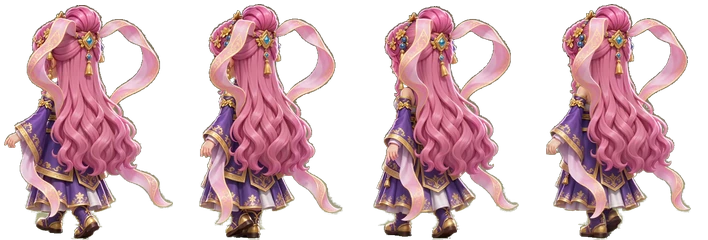
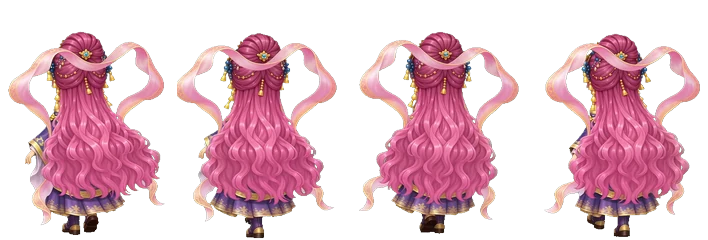
道家女行走图换成新视频版：待机→走→待机，正面/背面各取4帧步伐，无武器
Claude-Session: https://claude.ai/code/session_01Ug7SvjxsTvGWtWQTYLfcGg

diff --git a/js/assets.js b/js/assets.js
@@ -1,2 +1,2 @@
 // 素材清单（相对路径版）。单文件版里这一段会被换成内嵌的 data URI。
-window.ASSETS = {"img": {"axiu": "assets/axiu.webp", "b_axiu": "assets/b_axiu.webp", "b_dao_dz": "assets/b_dao_dz.webp", "b_dao_dz_m": "assets/b_dao_dz_m.webp", "b_dao_qm": "assets/b_dao_qm.webp", "b_dao_qm_m": "assets/b_dao_qm_m.webp", "b_dao_ty": "assets/b_dao_ty.webp", "b_dao_ty_m": "assets/b_dao_ty_m.webp", "b_deer": "assets/b_deer.webp", "b_fox": "assets/b_fox.webp", "b_girl": "assets/b_girl.webp", "b_hawk": "assets/b_hawk.webp", "b_mo_dj": "assets/b_mo_dj.webp", "b_mo_dj_m": "assets/b_mo_dj_m.webp", "b_mo_dz": "assets/b_mo_dz.webp", "b_mo_dz_m": "assets/b_mo_dz_m.webp", "b_mo_ms": "assets/b_mo_ms.webp", "b_mo_ms_m": "assets/b_mo_ms_m.webp", "b_novice_f": "assets/b_novice_f.webp", "b_novice_m": "assets/b_novice_m.webp", "b_player": "assets/b_player.webp", "b_rabbit": "assets/b_rabbit.webp", "b_ss_1221": "assets/b_ss_1221.webp", "b_ss_1222": "assets/b_ss_1222.webp", "b_ss_1223": "assets/b_ss_1223.webp", "b_ss_1224": "assets/b_ss_1224.webp", "b_ss_1225": "assets/b_ss_1225.webp", "b_ss_1226": "assets/b_ss_1226.webp", "b_ss_1227": "assets/b_ss_1227.webp", "b_ss_bs20": "assets/b_ss_bs20.webp", "b_tiger": "assets/b_tiger.webp", "b_wuchen": "assets/b_wuchen.webp", "b_yan": "assets/b_yan.webp", "bc_dao_dz": "assets/bc_dao_dz.webp", "bc_dao_dz_m": "assets/bc_dao_dz_m.webp", "bc_dao_qm": "assets/bc_dao_qm.webp", "bc_dao_qm_m": "assets/bc_dao_qm_m.webp", "bc_dao_ty": "assets/bc_dao_ty.webp", "bc_dao_ty_m": "assets/bc_dao_ty_m.webp", "bc_mo_dj": "assets/bc_mo_dj.webp", "bc_mo_dj_m": "assets/bc_mo_dj_m.webp", "bc_mo_dz": "assets/bc_mo_dz.webp", "bc_mo_dz_m": "assets/bc_mo_dz_m.webp", "bc_mo_ms": "assets/bc_mo_ms.webp", "bc_mo_ms_m": "assets/bc_mo_ms_m.webp", "bg_battle": "assets/bg_battle.webp", "bg_battle2": "assets/bg_battle2.webp", "bg_creek": "assets/bg_creek.webp", "bg_mist": "assets/bg_mist.webp", "bg_outskirts": "assets/bg_outskirts.webp", "bg_pine": "assets/bg_pine.webp", "bg_taixuforest": "assets/bg_taixuforest.webp", "bg_taixupeak": "assets/bg_taixupeak.webp", "bg_taixuvalley": "assets/bg_taixuvalley.webp", "bg_tower1": "assets/bg_tower1.webp", "bg_tower2": "assets/bg_tower2.webp", "bg_tower3": "assets/bg_tower3.webp", "bg_tower4": "assets/bg_tower4.webp", "bg_tower5": "assets/bg_tower5.webp", "bg_tower6": "assets/bg_tower6.webp", "bg_tower7": "assets/bg_tower7.webp", "bg_town": "assets/bg_town.webp", "bg_village": "assets/bg_village.webp", "bg_wild": "assets/bg_wild.webp", "bg_wolfvalley": "assets/bg_wolfvalley.webp", "boar": "assets/boar.webp", "boss": "assets/boss.webp", "bp_ss_1221": "assets/bp_ss_1221.webp", "bp_ss_1222": "assets/bp_ss_1222.webp", "bp_ss_1223": "assets/bp_ss_1223.webp", "bp_ss_1224": "assets/bp_ss_1224.webp", "bp_ss_1225": "assets/bp_ss_1225.webp", "bp_ss_1226": "assets/bp_ss_1226.webp", "bp_ss_1227": "assets/bp_ss_1227.webp", "bp_ss_bs20": "assets/bp_ss_bs20.webp", "cls_dao_dz": "assets/cls_dao_dz.webp", "cls_dao_dz_m": "assets/cls_dao_dz_m.webp", "cls_dao_qm": "assets/cls_dao_qm.webp", "cls_dao_qm_m": "assets/cls_dao_qm_m.webp", "cls_dao_ty": "assets/cls_dao_ty.webp", "cls_dao_ty_m": "assets/cls_dao_ty_m.webp", "cls_f_bow": "assets/cls_f_bow.webp", "cls_f_heal": "assets/cls_f_heal.webp", "cls_f_sword": "assets/cls_f_sword.webp", "cls_m_mage": "assets/cls_m_mage.webp", "cls_m_spear": "assets/cls_m_spear.webp", "cls_m_sword": "assets/cls_m_sword.webp", "cls_mo_dj": "assets/cls_mo_dj.webp", "cls_mo_dj_m": "assets/cls_mo_dj_m.webp", "cls_mo_dz": "assets/cls_mo_dz.webp", "cls_mo_dz_m": "assets/cls_mo_dz_m.webp", "cls_mo_ms": "assets/cls_mo_ms.webp", "cls_mo_ms_m": "assets/cls_mo_ms_m.webp", "cls_novice_f": "assets/cls_novice_f.webp", "cls_novice_m": "assets/cls_novice_m.webp", "dummy": "assets/dummy.webp", "elder": "assets/elder.webp", "f_blade": "assets/f_blade.webp", "f_crane": "assets/f_crane.webp", "f_dragon": "assets/f_dragon.webp", "f_healer": "assets/f_healer.webp", "f_panda": "assets/f_panda.webp", "f_panther": "assets/f_panther.webp", "f_spear": "assets/f_spear.webp", "f_sword": "assets/f_sword.webp", "f_tao": "assets/f_tao.webp", "f_tortoise": "assets/f_tortoise.webp", "fox": "assets/fox.webp", "fx_chain": "assets/fx_chain.webp", "fx_heal": "assets/fx_heal.webp", "fx_mist": "assets/fx_mist.webp", "fx_notes": "assets/fx_notes.webp", "fx_revive": "assets/fx_revive.webp", "fx_ring": "assets/fx_ring.webp", "fx_soul": "assets/fx_soul.webp", "fx_wave": "assets/fx_wave.webp", "fxc_chain": "assets/fxc_chain.webp", "fxc_heal": "assets/fxc_heal.webp", "fxc_mist": "assets/fxc_mist.webp", "fxc_notes": "assets/fxc_notes.webp", "fxc_revive": "assets/fxc_revive.webp", "fxc_soul": "assets/fxc_soul.webp", "fxc_wave": "assets/fxc_wave.webp", "girl": "assets/girl.webp", "grunt": "assets/grunt.webp", "head_axiu": "assets/head_axiu.webp", "head_dao_dz": "assets/head_dao_dz.webp", "head_dao_dz_m": "assets/head_dao_dz_m.webp", "head_dao_qm": "assets/head_dao_qm.webp", "head_dao_qm_m": "assets/head_dao_qm_m.webp", "head_dao_ty": "assets/head_dao_ty.webp", "head_dao_ty_m": "assets/head_dao_ty_m.webp", "head_elder": "assets/head_elder.webp", "head_f_bow": "assets/head_f_bow.webp", "head_f_heal": "assets/head_f_heal.webp", "head_f_sword": "assets/head_f_sword.webp", "head_girl": "assets/head_girl.webp", "head_kk_npc07": "assets/head_kk_npc07.webp", "head_kk_npc13": "assets/head_kk_npc13.webp", "head_kk_npc14": "assets/head_kk_npc14.webp", "head_kk_npc33": "assets/head_kk_npc33.webp", "head_kk_npc45": "assets/head_kk_npc45.webp", "head_kk_npc47": "assets/head_kk_npc47.webp", "head_kk_npc57": "assets/head_kk_npc57.webp", "head_kk_npc_cyblq": "assets/head_kk_npc_cyblq.webp", "head_kk_npc_zhw": "assets/head_kk_npc_zhw.webp", "head_m_mage": "assets/head_m_mage.webp", "head_m_spear": "assets/head_m_spear.webp", "head_m_sword": "assets/head_m_sword.webp", "head_mo_dj": "assets/head_mo_dj.webp", "head_mo_dj_m": "assets/head_mo_dj_m.webp", "head_mo_dz": "assets/head_mo_dz.webp", "head_mo_dz_m": "assets/head_mo_dz_m.webp", "head_mo_ms": "assets/head_mo_ms.webp", "head_mo_ms_m": "assets/head_mo_ms_m.webp", "head_novice_f": "assets/head_novice_f.webp", "head_novice_m": "assets/head_novice_m.webp", "head_player": "assets/head_player.webp", "head_smith": "assets/head_smith.webp", "head_vendor": "assets/head_vendor.webp", "head_waiter": "assets/head_waiter.webp", "icon_act": "assets/icon_act.webp", "icon_auto": "assets/icon_auto.webp", "icon_bag": "assets/icon_bag.webp", "icon_friend": "assets/icon_friend.webp", "icon_gear": "assets/icon_gear.webp", "icon_gift": "assets/icon_gift.webp", "icon_guild": "assets/icon_guild.webp", "icon_mall": "assets/icon_mall.webp", "icon_map": "assets/icon_map.webp", "icon_pet": "assets/icon_pet.webp", "icon_potion": "assets/icon_potion.webp", "icon_quest": "assets/icon_quest.webp", "icon_rank": "assets/icon_rank.webp", "icon_ride": "assets/icon_ride.webp", "icon_role": "assets/icon_role.webp", "icon_skill": "assets/icon_skill.webp", "item_bagua_mirror": "assets/item_bagua_mirror.webp", "item_brocade_pouch": "assets/item_brocade_pouch.webp", "item_bronze_bell": "assets/item_bronze_bell.webp", "item_chest": "assets/item_chest.webp", "item_cloth_armor": "assets/item_cloth_armor.webp", "item_cloth_boots": "assets/item_cloth_boots.webp", "item_cloud_boots": "assets/item_cloud_boots.webp", "item_coins": "assets/item_coins.webp", "item_copper_ring": "assets/item_copper_ring.webp", "item_crimson_sword": "assets/item_crimson_sword.webp", "item_forge_1": "assets/item_forge_1.webp", "item_forge_2": "assets/item_forge_2.webp", "item_forge_3": "assets/item_forge_3.webp", "item_forge_4": "assets/item_forge_4.webp", "item_forge_5": "assets/item_forge_5.webp", "item_gem_atk": "assets/item_gem_atk.webp", "item_gem_crit": "assets/item_gem_crit.webp", "item_gem_def": "assets/item_gem_def.webp", "item_gem_dodge": "assets/item_gem_dodge.webp", "item_gem_hp": "assets/item_gem_hp.webp", "item_gem_matk": "assets/item_gem_matk.webp", "item_gem_mdef": "assets/item_gem_mdef.webp", "item_gem_mp": "assets/item_gem_mp.webp", "item_gem_spd": "assets/item_gem_spd.webp", "item_herb_pouch": "assets/item_herb_pouch.webp", "item_hp_potion": "assets/item_hp_potion.webp", "item_iron_armor": "assets/item_iron_armor.webp", "item_iron_greaves": "assets/item_iron_greaves.webp", "item_iron_helm": "assets/item_iron_helm.webp", "item_iron_sword": "assets/item_iron_sword.webp", "item_jade_belt": "assets/item_jade_belt.webp", "item_jade_charm": "assets/item_jade_charm.webp", "item_jade_pendant": "assets/item_jade_pendant.webp", "item_jade_sword": "assets/item_jade_sword.webp", "item_lantern": "assets/item_lantern.webp", "item_leather_armor": "assets/item_leather_armor.webp", "item_leather_bracer": "assets/item_leather_bracer.webp", "item_leather_cap": "assets/item_leather_cap.webp", "item_linen_belt": "assets/item_linen_belt.webp", "item_linen_legs": "assets/item_linen_legs.webp", "item_mp_potion": "assets/item_mp_potion.webp", "item_ore": "assets/item_ore.webp", "item_peace_charm": "assets/item_peace_charm.webp", "item_phoenix_armor": "assets/item_phoenix_armor.webp", "item_sachet": "assets/item_sachet.webp", "item_scale_armor": "assets/item_scale_armor.webp", "item_silver_ring": "assets/item_silver_ring.webp", "item_steel_bracer": "assets/item_steel_bracer.webp", "item_steel_saber": "assets/item_steel_saber.webp", "item_steel_sword": "assets/item_steel_sword.webp", "item_wolf_fang": "assets/item_wolf_fang.webp", "item_wood_beads": "assets/item_wood_beads.webp", "kk_npc07": "assets/kk_npc07.webp", "kk_npc13": "assets/kk_npc13.webp", "kk_npc14": "assets/kk_npc14.webp", "kk_npc33": "assets/kk_npc33.webp", "kk_npc45": "assets/kk_npc45.webp", "kk_npc47": "assets/kk_npc47.webp", "kk_npc57": "assets/kk_npc57.webp", "kk_npc_cyblq": "assets/kk_npc_cyblq.webp", "kk_npc_zhw": "assets/kk_npc_zhw.webp", "login": "assets/login.webp", "mini_creek": "assets/mini_creek.jpg", "mini_mist": "assets/mini_mist.jpg", "mini_outskirts": "assets/mini_outskirts.jpg", "mini_pine": "assets/mini_pine.jpg", "mini_taixuforest": "assets/mini_taixuforest.jpg", "mini_taixupeak": "assets/mini_taixupeak.jpg", "mini_taixuvalley": "assets/mini_taixuvalley.jpg", "mini_tower1": "assets/mini_tower1.jpg", "mini_tower2": "assets/mini_tower2.jpg", "mini_tower3": "assets/mini_tower3.jpg", "mini_tower4": "assets/mini_tower4.jpg", "mini_tower5": "assets/mini_tower5.jpg", "mini_tower6": "assets/mini_tower6.jpg", "mini_tower7": "assets/mini_tower7.jpg", "mini_town": "assets/mini_town.jpg", "mini_village": "assets/mini_village.jpg", "mini_wild": "assets/mini_wild.jpg", "mini_wolfvalley": "assets/mini_wolfvalley.jpg", "pd_ss_1221": "assets/pd_ss_1221.webp", "pd_ss_1222": "assets/pd_ss_1222.webp", "pd_ss_1223": "assets/pd_ss_1223.webp", "pd_ss_1224": "assets/pd_ss_1224.webp", "pd_ss_1225": "assets/pd_ss_1225.webp", "pd_ss_1226": "assets/pd_ss_1226.webp", "pd_ss_1227": "assets/pd_ss_1227.webp", "pd_ss_bs20": "assets/pd_ss_bs20.webp", "pfx_ss_1221": "assets/pfx_ss_1221.webp", "pfx_ss_1222": "assets/pfx_ss_1222.webp", "pfx_ss_1223": "assets/pfx_ss_1223.webp", "pfx_ss_1224": "assets/pfx_ss_1224.webp", "pfx_ss_1225": "assets/pfx_ss_1225.webp", "pfx_ss_1226": "assets/pfx_ss_1226.webp", "pfx_ss_1227": "assets/pfx_ss_1227.webp", "pfx_ss_bs20": "assets/pfx_ss_bs20.webp", "player": "assets/player.webp", "smith": "assets/smith.webp", "vendor": "assets/vendor.webp", "waiter": "assets/waiter.webp", "walk_b": "assets/walk_b.webp", "walk_b_dao_dz": "assets/walk_b_dao_dz.webp", "walk_b_dao_dz_m": "assets/walk_b_dao_dz_m.webp", "walk_b_dao_qm": "assets/walk_b_dao_qm.webp", "walk_b_dao_qm_m": "assets/walk_b_dao_qm_m.webp", "walk_b_dao_ty": "assets/walk_b_dao_ty.webp", "walk_b_dao_ty_m": "assets/walk_b_dao_ty_m.webp", "walk_b_mo_dj": "assets/walk_b_mo_dj.webp", "walk_b_mo_dj_m": "assets/walk_b_mo_dj_m.webp", "walk_b_mo_dz": "assets/walk_b_mo_dz.webp", "walk_b_mo_dz_m": "assets/walk_b_mo_dz_m.webp", "walk_b_mo_ms": "assets/walk_b_mo_ms.webp", "walk_b_mo_ms_m": "assets/walk_b_mo_ms_m.webp", "walk_b_novice_f": "assets/walk_b_novice_f.webp", "walk_b_novice_m": "assets/walk_b_novice_m.webp", "walk_f": "assets/walk_f.webp", "walk_f_dao_dz": "assets/walk_f_dao_dz.webp", "walk_f_dao_dz_m": "assets/walk_f_dao_dz_m.webp", "walk_f_dao_qm": "assets/walk_f_dao_qm.webp", "walk_f_dao_qm_m": "assets/walk_f_dao_qm_m.webp", "walk_f_dao_ty": "assets/walk_f_dao_ty.webp", "walk_f_dao_ty_m": "assets/walk_f_dao_ty_m.webp", "walk_f_mo_dj": "assets/walk_f_mo_dj.webp", "walk_f_mo_dj_m": "assets/walk_f_mo_dj_m.webp", "walk_f_mo_dz": "assets/walk_f_mo_dz.webp", "walk_f_mo_dz_m": "assets/walk_f_mo_dz_m.webp", "walk_f_mo_ms": "assets/walk_f_mo_ms.webp", "walk_f_mo_ms_m": "assets/walk_f_mo_ms_m.webp", "walk_f_novice_f": "assets/walk_f_novice_f.webp", "walk_f_novice_m": "assets/walk_f_novice_m.webp", "wolf": "assets/wolf.webp", "world": "assets/world.webp", "kk_mo_ms": "assets/kk_mo_ms.webp", "head_kk_mo_ms": "assets/head_kk_mo_ms.webp", "kk_mo_dj": "assets/kk_mo_dj.webp", "head_kk_mo_dj": "assets/head_kk_mo_dj.webp", "fx_mo_tiger": "assets/fx_mo_tiger.webp", "fx_mo_roar": "assets/fx_mo_roar.webp", "fx_mo_slash": "assets/fx_mo_slash.webp", "fx_mo_blood": "assets/fx_mo_blood.webp", "fx_mo_pojia": "assets/fx_mo_pojia.webp", "fx_mo_bone": "assets/fx_mo_bone.webp", "fx_mo_song": "assets/fx_mo_song.webp", "fx_mo_dragon": "assets/fx_mo_dragon.webp", "ph_ss_1221": "assets/ph_ss_1221.webp", "ph_ss_1222": "assets/ph_ss_1222.webp", "ph_ss_1223": "assets/ph_ss_1223.webp", "ph_ss_1224": "assets/ph_ss_1224.webp", "ph_ss_1225": "assets/ph_ss_1225.webp", "ph_ss_1226": "assets/ph_ss_1226.webp", "ph_ss_1227": "assets/ph_ss_1227.webp", "ph_ss_bs20": "assets/ph_ss_bs20.webp", "kk_axiu": "assets/kk_axiu.webp", "head_kk_axiu": "assets/head_kk_axiu.webp", "portal_array": "assets/portal_array.webp", "wheel": "assets/wheel.webp", "kk_npc_jmsr": "assets/kk_npc_jmsr.webp", "head_kk_npc_jmsr": "assets/head_kk_npc_jmsr.webp", "kk_npc20": "assets/kk_npc20.webp", "head_kk_npc20": "assets/head_kk_npc20.webp"}, "size": {"player": [55.0, 112.0], "fox": [39.0, 50.0], "waiter": [46.5, 102.0], "smith": [62.0, 112.0], "girl": [48.0, 102.0], "vendor": [54.0, 100.0], "grunt": [96.5, 108.0], "wolf": [89.5, 72.0], "boss": [128.5, 150.0], "elder": [59.5, 104.0], "axiu": [50.5, 100.0], "dummy": [66.5, 110.0], "boar": [74.5, 78.0], "b_player": [99.0, 130.0], "b_axiu": [53.5, 124.0], "b_girl": [76.0, 128.0], "b_yan": [79.0, 132.0], "b_wuchen": [104.0, 132.0], "b_fox": [51.5, 66.0], "b_deer": [52.0, 80.0], "b_rabbit": [40.5, 60.0], "b_hawk": [109.5, 74.0], "b_tiger": [68.0, 68.0], "f_sword": [78.0, 130.0], "f_tao": [75.0, 134.0], "f_blade": [98.5, 140.0], "f_healer": [79.5, 130.0], "f_spear": [97.0, 134.0], "f_panther": [63.0, 62.0], "f_crane": [94.0, 86.0], "f_dragon": [64.5, 78.0], "f_panda": [82.0, 68.0], "f_tortoise": [65.0, 60.0], "world": [2300, 2300], "walk_f": [77.0, 123.5, 35.217675941080195], "walk_b": [66.5, 120.0, 45.688926458157226], "walk_f_dao_ty": [88.5, 120.0, 44.33036707452725], "walk_b_dao_ty": [88.5, 120.0, 47.01380897583429], "walk_f_dao_qm": [88.5, 120.0, 44.33036707452725], "walk_b_dao_qm": [88.5, 120.0, 47.01380897583429], "b_dao_ty": [114.5, 126.0], "b_dao_qm": [133.5, 126.0], "walk_f_novice_f": [101.0, 121.0, 41.202657807308974], "walk_b_novice_f": [90.0, 123.5, 48.051238257899236], "b_novice_f": [117.0, 126.0], "walk_f_novice_m": [108.0, 120.0, 46.58414239482201], "walk_b_novice_m": [80.0, 122.5, 35.21258503401361], "b_novice_m": [128.0, 126.0], "walk_f_dao_ty_m": [67.5, 121.5, 32.28397873955961], "walk_b_dao_ty_m": [66.5, 122.5, 36.781015820149875], "walk_f_dao_qm_m": [62.5, 123.0, 30.910906298003074], "walk_b_dao_qm_m": [68.5, 120.5, 31.071155317521043], "b_dao_ty_m": [91.0, 126.0], "b_dao_qm_m": [129.5, 126.0], "walk_f_dao_dz": [88.5, 120.0, 44.33036707452725], "walk_b_dao_dz": [88.5, 120.0, 47.01380897583429], "b_dao_dz": [93.0, 126.0], "walk_f_dao_dz_m": [73.0, 122.5, 33.87975646879757], "walk_b_dao_dz_m": [67.5, 122.0, 39.39297658862876], "b_dao_dz_m": [69.0, 126.0], "bc_dao_dz": [145.0, 145.0], "bc_dao_dz_m": [105.0, 145.0], "bc_dao_qm": [148.5, 145.0], "bc_dao_qm_m": [113.0, 145.0], "bc_dao_ty": [123.5, 145.0], "bc_dao_ty_m": [124.0, 145.0], "walk_f_mo_ms": [108.0, 120.0, 61.297478991596634], "walk_b_mo_ms": [114.5, 120.0, 49.28597449908925], "b_mo_ms": [102.0, 126.0], "bc_mo_ms": [149.0, 145.0], "walk_f_mo_ms_m": [109.5, 122.5, 65.20658135283364], "walk_b_mo_ms_m": [103.5, 124.5, 38.951557093425606], "b_mo_ms_m": [105.0, 126.0], "bc_mo_ms_m": [154.5, 145.0], "walk_f_mo_dj": [91.0, 121.5, 47.10910582444627], "walk_b_mo_dj": [84.0, 123.0, 42.84987694831829], "b_mo_dj": [79.0, 126.0], "bc_mo_dj": [151.0, 145.0], "walk_f_mo_dj_m": [90.0, 121.0, 53.61199294532628], "walk_b_mo_dj_m": [88.0, 124.5, 38.284751474304976], "b_mo_dj_m": [83.0, 126.0], "bc_mo_dj_m": [163.5, 145.0], "walk_f_mo_dz": [79.5, 120.5, 40.15627597672486], "walk_b_mo_dz": [83.0, 120.0, 38.76588337684944], "b_mo_dz": [87.0, 126.0], "bc_mo_dz": [156.5, 145.0], "walk_f_mo_dz_m": [88.5, 120.0, 49.593333333333334], "walk_b_mo_dz_m": [86.5, 122.0, 37.96190476190476], "b_mo_dz_m": [90.5, 126.0], "bc_mo_dz_m": [163.0, 145.0], "b_ss_1221": [140.8, 158], "bp_ss_1221": [227.2, 172.8], "b_ss_1222": [132.6, 160], "bp_ss_1222": [188.8, 162.8], "b_ss_1223": [121.1, 150], "bp_ss_1223": [172.4, 157.7], "b_ss_1224": [117.5, 150], "bp_ss_1224": [188.4, 155.7], "b_ss_1225": [143.4, 150], "bp_ss_1225": [238.4, 152.3], "b_ss_1226": [152.2, 165], "bp_ss_1226": [259.3, 183.2], "b_ss_1227": [95.6, 142], "bp_ss_1227": [170.2, 146.1], "b_ss_bs20": [129.8, 112], "bp_ss_bs20": [225.3, 121.5], "pfx_ss_1227": [184.1, 90.3], "pfx_ss_1222": [268.2, 75.5], "pfx_ss_1223": [238.2, 107.6], "pfx_ss_1224": [289.6, 277.1], "pfx_ss_1225": [237.3, 527.3], "pfx_ss_1226": [208.8, 123.8], "pfx_ss_1221": [205.3, 153.5], "pfx_ss_bs20": [154.5, 138.8], "pd_ss_1221": [153.0, 158], "pd_ss_1222": [151.2, 160], "pd_ss_1223": [141.6, 150], "pd_ss_1224": [136.6, 150], "pd_ss_1225": [194.9, 150], "pd_ss_1226": [195.0, 165], "pd_ss_1227": [117.2, 142], "pd_ss_bs20": [128.2, 112], "kk_npc14": [58.0, 104.0], "kk_npc_zhw": [78.0, 118.0], "kk_npc_cyblq": [107.0, 132.0], "kk_npc13": [48.0, 104.0], "kk_npc07": [47.0, 104.0], "kk_npc33": [49.5, 104.0], "kk_npc57": [145.0, 150.0], "kk_npc45": [120.0, 150.0], "kk_npc47": [143.0, 156.0], "kk_mo_ms": [138.0, 150.0], "kk_mo_dj": [117.0, 150.0], "kk_axiu": [54.5, 104.0], "portal_array": [200.0, 95.0], "wheel": [440, 440], "kk_npc_jmsr": [107.5, 112.0], "kk_npc20": [74.0, 104.0]}, "pet": {"b_ss_1221": {"sheet": "bp_ss_1221", "cols": 6, "rows": 2, "cw": 227.2, "ch": 172.8, "ox": 113.6, "by": 0, "H": 158, "seq": {"idle": [[0, 150]], "atk": [[4, 120], [5, 120], [6, 120], [7, 120]], "hit": [[8, 110], [9, 110]], "dodge": [[10, 110]]}, "rel": {"atk": 2}, "pfx": {"sheet": "pfx_ss_1221", "n": 4, "cw": 205.3, "ch": 153.5, "map": {"ss_hit": [0, 1], "ss_qk": [2, 3]}, "sc": {"ss_hit": 0.9, "ss_qk": 1.2}}}, "b_ss_1222": {"sheet": "bp_ss_1222", "cols": 6, "rows": 2, "cw": 188.8, "ch": 162.8, "ox": 94.4, "by": 0, "H": 160, "seq": {"idle": [[0, 150]], "atk": [[4, 120], [5, 120], [6, 120], [7, 120]], "hit": [[8, 110], [9, 110]], "dodge": [[10, 110]]}, "rel": {"atk": 2}, "pfx": {"sheet": "pfx_ss_1222", "n": 4, "cw": 268.2, "ch": 75.5, "map": {"ss_hit": [0, 1], "ss_sy": [2, 3]}, "sc": {"ss_hit": 1, "ss_sy": 1.2}}}, "b_ss_1223": {"sheet": "bp_ss_1223", "cols": 6, "rows": 2, "cw": 172.4, "ch": 157.7, "ox": 86.2, "by": 0, "H": 150, "seq": {"idle": [[0, 150]], "atk": [[4, 120], [5, 120], [6, 120], [7, 120]], "hit": [[8, 110], [9, 110]], "dodge": [[10, 110]]}, "rel": {"atk": 2}, "pfx": {"sheet": "pfx_ss_1223", "n": 6, "cw": 238.2, "ch": 107.6, "map": {"ss_hit": [0, 1], "ss_sx": [2, 3], "ss_tsy": [4, 5]}, "sc": {"ss_hit": 1, "ss_sx": 1.1, "ss_tsy": 1.3}}}, "b_ss_1224": {"sheet": "bp_ss_1224", "cols": 6, "rows": 2, "cw": 188.4, "ch": 155.7, "ox": 94.2, "by": 0, "H": 150, "seq": {"idle": [[0, 150]], "atk": [[4, 120], [5, 120], [6, 120], [7, 120]], "hit": [[8, 110], [9, 110]], "dodge": [[10, 110]]}, "rel": {"atk": 2}, "pfx": {"sheet": "pfx_ss_1224", "n": 3, "cw": 289.6, "ch": 277.1, "map": {"ss_hit": [0], "ss_ts": [1, 2]}, "sc": {"ss_hit": 1, "ss_ts": 1.2}}}, "b_ss_1225": {"sheet": "bp_ss_1225", "cols": 6, "rows": 2, "cw": 238.4, "ch": 152.3, "ox": 119.2, "by": 0, "H": 150, "seq": {"idle": [[0, 150]], "atk": [[4, 120], [5, 120], [6, 120], [7, 120]], "hit": [[8, 110], [9, 110]], "dodge": [[10, 110]]}, "rel": {"atk": 2}, "pfx": {"sheet": "pfx_ss_1225", "n": 4, "cw": 237.3, "ch": 527.3, "map": {"ss_hit": [0, 1], "ss_sg": [2, 3]}, "sc": {"ss_hit": 1, "ss_sg": 1.3}}}, "b_ss_1226": {"sheet": "bp_ss_1226", "cols": 6, "rows": 2, "cw": 259.3, "ch": 183.2, "ox": 129.7, "by": 0, "H": 165, "seq": {"idle": [[0, 150]], "atk": [[4, 120], [5, 120], [6, 120], [7, 120]], "hit": [[8, 110], [9, 110]], "dodge": [[10, 110]]}, "rel": {"atk": 2}, "pfx": {"sheet": "pfx_ss_1226", "n": 10, "cw": 208.8, "ch": 123.8, "map": {"ss_hit": [0, 1, 2, 3], "ss_th": [4, 5, 6], "ss_dy": [7, 8, 9]}, "sc": {"ss_hit": 1, "ss_th": 1.5, "ss_dy": 1.2}}}, "b_ss_1227": {"sheet": "bp_ss_1227", "cols": 6, "rows": 2, "cw": 170.2, "ch": 146.1, "ox": 85.1, "by": 0, "H": 142, "seq": {"idle": [[0, 150]], "atk": [[4, 120], [5, 120], [6, 120], [7, 120]], "hit": [[8, 110], [9, 110]], "dodge": [[10, 110]]}, "rel": {"atk": 2}, "pfx": {"sheet": "pfx_ss_1227", "n": 7, "cw": 184.1, "ch": 90.3, "map": {"ss_hit": [0, 1], "ss_sl_bw": [2, 3], "ss_kl": [4, 5, 6]}, "sc": {"ss_hit": 1, "ss_sl_bw": 1, "ss_kl": 1.3}}}, "b_ss_bs20": {"sheet": "bp_ss_bs20", "cols": 6, "rows": 2, "cw": 225.3, "ch": 121.5, "ox": 112.6, "by": 0, "H": 112, "seq": {"idle": [[0, 150]], "atk": [[4, 120], [5, 120], [6, 120], [7, 120]], "hit": [[8, 110], [9, 110]], "dodge": [[10, 110]]}, "rel": {"atk": 2}, "pfx": {"sheet": "pfx_ss_bs20", "n": 6, "cw": 154.5, "ch": 138.8, "map": {"attack": [0, 1], "bite": [2, 3], "foxfire": [4, 5]}, "sc": {"attack": 1, "bite": 1, "foxfire": 1.3}}}}, "occ": {}};
+window.ASSETS = {"img": {"axiu": "assets/axiu.webp", "b_axiu": "assets/b_axiu.webp", "b_dao_dz": "assets/b_dao_dz.webp", "b_dao_dz_m": "assets/b_dao_dz_m.webp", "b_dao_qm": "assets/b_dao_qm.webp", "b_dao_qm_m": "assets/b_dao_qm_m.webp", "b_dao_ty": "assets/b_dao_ty.webp", "b_dao_ty_m": "assets/b_dao_ty_m.webp", "b_deer": "assets/b_deer.webp", "b_fox": "assets/b_fox.webp", "b_girl": "assets/b_girl.webp", "b_hawk": "assets/b_hawk.webp", "b_mo_dj": "assets/b_mo_dj.webp", "b_mo_dj_m": "assets/b_mo_dj_m.webp", "b_mo_dz": "assets/b_mo_dz.webp", "b_mo_dz_m": "assets/b_mo_dz_m.webp", "b_mo_ms": "assets/b_mo_ms.webp", "b_mo_ms_m": "assets/b_mo_ms_m.webp", "b_novice_f": "assets/b_novice_f.webp", "b_novice_m": "assets/b_novice_m.webp", "b_player": "assets/b_player.webp", "b_rabbit": "assets/b_rabbit.webp", "b_ss_1221": "assets/b_ss_1221.webp", "b_ss_1222": "assets/b_ss_1222.webp", "b_ss_1223": "assets/b_ss_1223.webp", "b_ss_1224": "assets/b_ss_1224.webp", "b_ss_1225": "assets/b_ss_1225.webp", "b_ss_1226": "assets/b_ss_1226.webp", "b_ss_1227": "assets/b_ss_1227.webp", "b_ss_bs20": "assets/b_ss_bs20.webp", "b_tiger": "assets/b_tiger.webp", "b_wuchen": "assets/b_wuchen.webp", "b_yan": "assets/b_yan.webp", "bc_dao_dz": "assets/bc_dao_dz.webp", "bc_dao_dz_m": "assets/bc_dao_dz_m.webp", "bc_dao_qm": "assets/bc_dao_qm.webp", "bc_dao_qm_m": "assets/bc_dao_qm_m.webp", "bc_dao_ty": "assets/bc_dao_ty.webp", "bc_dao_ty_m": "assets/bc_dao_ty_m.webp", "bc_mo_dj": "assets/bc_mo_dj.webp", "bc_mo_dj_m": "assets/bc_mo_dj_m.webp", "bc_mo_dz": "assets/bc_mo_dz.webp", "bc_mo_dz_m": "assets/bc_mo_dz_m.webp", "bc_mo_ms": "assets/bc_mo_ms.webp", "bc_mo_ms_m": "assets/bc_mo_ms_m.webp", "bg_battle": "assets/bg_battle.webp", "bg_battle2": "assets/bg_battle2.webp", "bg_creek": "assets/bg_creek.webp", "bg_mist": "assets/bg_mist.webp", "bg_outskirts": "assets/bg_outskirts.webp", "bg_pine": "assets/bg_pine.webp", "bg_taixuforest": "assets/bg_taixuforest.webp", "bg_taixupeak": "assets/bg_taixupeak.webp", "bg_taixuvalley": "assets/bg_taixuvalley.webp", "bg_tower1": "assets/bg_tower1.webp", "bg_tower2": "assets/bg_tower2.webp", "bg_tower3": "assets/bg_tower3.webp", "bg_tower4": "assets/bg_tower4.webp", "bg_tower5": "assets/bg_tower5.webp", "bg_tower6": "assets/bg_tower6.webp", "bg_tower7": "assets/bg_tower7.webp", "bg_town": "assets/bg_town.webp", "bg_village": "assets/bg_village.webp", "bg_wild": "assets/bg_wild.webp", "bg_wolfvalley": "assets/bg_wolfvalley.webp", "boar": "assets/boar.webp", "boss": "assets/boss.webp", "bp_ss_1221": "assets/bp_ss_1221.webp", "bp_ss_1222": "assets/bp_ss_1222.webp", "bp_ss_1223": "assets/bp_ss_1223.webp", "bp_ss_1224": "assets/bp_ss_1224.webp", "bp_ss_1225": "assets/bp_ss_1225.webp", "bp_ss_1226": "assets/bp_ss_1226.webp", "bp_ss_1227": "assets/bp_ss_1227.webp", "bp_ss_bs20": "assets/bp_ss_bs20.webp", "cls_dao_dz": "assets/cls_dao_dz.webp", "cls_dao_dz_m": "assets/cls_dao_dz_m.webp", "cls_dao_qm": "assets/cls_dao_qm.webp", "cls_dao_qm_m": "assets/cls_dao_qm_m.webp", "cls_dao_ty": "assets/cls_dao_ty.webp", "cls_dao_ty_m": "assets/cls_dao_ty_m.webp", "cls_f_bow": "assets/cls_f_bow.webp", "cls_f_heal": "assets/cls_f_heal.webp", "cls_f_sword": "assets/cls_f_sword.webp", "cls_m_mage": "assets/cls_m_mage.webp", "cls_m_spear": "assets/cls_m_spear.webp", "cls_m_sword": "assets/cls_m_sword.webp", "cls_mo_dj": "assets/cls_mo_dj.webp", "cls_mo_dj_m": "assets/cls_mo_dj_m.webp", "cls_mo_dz": "assets/cls_mo_dz.webp", "cls_mo_dz_m": "assets/cls_mo_dz_m.webp", "cls_mo_ms": "assets/cls_mo_ms.webp", "cls_mo_ms_m": "assets/cls_mo_ms_m.webp", "cls_novice_f": "assets/cls_novice_f.webp", "cls_novice_m": "assets/cls_novice_m.webp", "dummy": "assets/dummy.webp", "elder": "assets/elder.webp", "f_blade": "assets/f_blade.webp", "f_crane": "assets/f_crane.webp", "f_dragon": "assets/f_dragon.webp", "f_healer": "assets/f_healer.webp", "f_panda": "assets/f_panda.webp", "f_panther": "assets/f_panther.webp", "f_spear": "assets/f_spear.webp", "f_sword": "assets/f_sword.webp", "f_tao": "assets/f_tao.webp", "f_tortoise": "assets/f_tortoise.webp", "fox": "assets/fox.webp", "fx_chain": "assets/fx_chain.webp", "fx_heal": "assets/fx_heal.webp", "fx_mist": "assets/fx_mist.webp", "fx_notes": "assets/fx_notes.webp", "fx_revive": "assets/fx_revive.webp", "fx_ring": "assets/fx_ring.webp", "fx_soul": "assets/fx_soul.webp", "fx_wave": "assets/fx_wave.webp", "fxc_chain": "assets/fxc_chain.webp", "fxc_heal": "assets/fxc_heal.webp", "fxc_mist": "assets/fxc_mist.webp", "fxc_notes": "assets/fxc_notes.webp", "fxc_revive": "assets/fxc_revive.webp", "fxc_soul": "assets/fxc_soul.webp", "fxc_wave": "assets/fxc_wave.webp", "girl": "assets/girl.webp", "grunt": "assets/grunt.webp", "head_axiu": "assets/head_axiu.webp", "head_dao_dz": "assets/head_dao_dz.webp", "head_dao_dz_m": "assets/head_dao_dz_m.webp", "head_dao_qm": "assets/head_dao_qm.webp", "head_dao_qm_m": "assets/head_dao_qm_m.webp", "head_dao_ty": "assets/head_dao_ty.webp", "head_dao_ty_m": "assets/head_dao_ty_m.webp", "head_elder": "assets/head_elder.webp", "head_f_bow": "assets/head_f_bow.webp", "head_f_heal": "assets/head_f_heal.webp", "head_f_sword": "assets/head_f_sword.webp", "head_girl": "assets/head_girl.webp", "head_kk_npc07": "assets/head_kk_npc07.webp", "head_kk_npc13": "assets/head_kk_npc13.webp", "head_kk_npc14": "assets/head_kk_npc14.webp", "head_kk_npc33": "assets/head_kk_npc33.webp", "head_kk_npc45": "assets/head_kk_npc45.webp", "head_kk_npc47": "assets/head_kk_npc47.webp", "head_kk_npc57": "assets/head_kk_npc57.webp", "head_kk_npc_cyblq": "assets/head_kk_npc_cyblq.webp", "head_kk_npc_zhw": "assets/head_kk_npc_zhw.webp", "head_m_mage": "assets/head_m_mage.webp", "head_m_spear": "assets/head_m_spear.webp", "head_m_sword": "assets/head_m_sword.webp", "head_mo_dj": "assets/head_mo_dj.webp", "head_mo_dj_m": "assets/head_mo_dj_m.webp", "head_mo_dz": "assets/head_mo_dz.webp", "head_mo_dz_m": "assets/head_mo_dz_m.webp", "head_mo_ms": "assets/head_mo_ms.webp", "head_mo_ms_m": "assets/head_mo_ms_m.webp", "head_novice_f": "assets/head_novice_f.webp", "head_novice_m": "assets/head_novice_m.webp", "head_player": "assets/head_player.webp", "head_smith": "assets/head_smith.webp", "head_vendor": "assets/head_vendor.webp", "head_waiter": "assets/head_waiter.webp", "icon_act": "assets/icon_act.webp", "icon_auto": "assets/icon_auto.webp", "icon_bag": "assets/icon_bag.webp", "icon_friend": "assets/icon_friend.webp", "icon_gear": "assets/icon_gear.webp", "icon_gift": "assets/icon_gift.webp", "icon_guild": "assets/icon_guild.webp", "icon_mall": "assets/icon_mall.webp", "icon_map": "assets/icon_map.webp", "icon_pet": "assets/icon_pet.webp", "icon_potion": "assets/icon_potion.webp", "icon_quest": "assets/icon_quest.webp", "icon_rank": "assets/icon_rank.webp", "icon_ride": "assets/icon_ride.webp", "icon_role": "assets/icon_role.webp", "icon_skill": "assets/icon_skill.webp", "item_bagua_mirror": "assets/item_bagua_mirror.webp", "item_brocade_pouch": "assets/item_brocade_pouch.webp", "item_bronze_bell": "assets/item_bronze_bell.webp", "item_chest": "assets/item_chest.webp", "item_cloth_armor": "assets/item_cloth_armor.webp", "item_cloth_boots": "assets/item_cloth_boots.webp", "item_cloud_boots": "assets/item_cloud_boots.webp", "item_coins": "assets/item_coins.webp", "item_copper_ring": "assets/item_copper_ring.webp", "item_crimson_sword": "assets/item_crimson_sword.webp", "item_forge_1": "assets/item_forge_1.webp", "item_forge_2": "assets/item_forge_2.webp", "item_forge_3": "assets/item_forge_3.webp", "item_forge_4": "assets/item_forge_4.webp", "item_forge_5": "assets/item_forge_5.webp", "item_gem_atk": "assets/item_gem_atk.webp", "item_gem_crit": "assets/item_gem_crit.webp", "item_gem_def": "assets/item_gem_def.webp", "item_gem_dodge": "assets/item_gem_dodge.webp", "item_gem_hp": "assets/item_gem_hp.webp", "item_gem_matk": "assets/item_gem_matk.webp", "item_gem_mdef": "assets/item_gem_mdef.webp", "item_gem_mp": "assets/item_gem_mp.webp", "item_gem_spd": "assets/item_gem_spd.webp", "item_herb_pouch": "assets/item_herb_pouch.webp", "item_hp_potion": "assets/item_hp_potion.webp", "item_iron_armor": "assets/item_iron_armor.webp", "item_iron_greaves": "assets/item_iron_greaves.webp", "item_iron_helm": "assets/item_iron_helm.webp", "item_iron_sword": "assets/item_iron_sword.webp", "item_jade_belt": "assets/item_jade_belt.webp", "item_jade_charm": "assets/item_jade_charm.webp", "item_jade_pendant": "assets/item_jade_pendant.webp", "item_jade_sword": "assets/item_jade_sword.webp", "item_lantern": "assets/item_lantern.webp", "item_leather_armor": "assets/item_leather_armor.webp", "item_leather_bracer": "assets/item_leather_bracer.webp", "item_leather_cap": "assets/item_leather_cap.webp", "item_linen_belt": "assets/item_linen_belt.webp", "item_linen_legs": "assets/item_linen_legs.webp", "item_mp_potion": "assets/item_mp_potion.webp", "item_ore": "assets/item_ore.webp", "item_peace_charm": "assets/item_peace_charm.webp", "item_phoenix_armor": "assets/item_phoenix_armor.webp", "item_sachet": "assets/item_sachet.webp", "item_scale_armor": "assets/item_scale_armor.webp", "item_silver_ring": "assets/item_silver_ring.webp", "item_steel_bracer": "assets/item_steel_bracer.webp", "item_steel_saber": "assets/item_steel_saber.webp", "item_steel_sword": "assets/item_steel_sword.webp", "item_wolf_fang": "assets/item_wolf_fang.webp", "item_wood_beads": "assets/item_wood_beads.webp", "kk_npc07": "assets/kk_npc07.webp", "kk_npc13": "assets/kk_npc13.webp", "kk_npc14": "assets/kk_npc14.webp", "kk_npc33": "assets/kk_npc33.webp", "kk_npc45": "assets/kk_npc45.webp", "kk_npc47": "assets/kk_npc47.webp", "kk_npc57": "assets/kk_npc57.webp", "kk_npc_cyblq": "assets/kk_npc_cyblq.webp", "kk_npc_zhw": "assets/kk_npc_zhw.webp", "login": "assets/login.webp", "mini_creek": "assets/mini_creek.jpg", "mini_mist": "assets/mini_mist.jpg", "mini_outskirts": "assets/mini_outskirts.jpg", "mini_pine": "assets/mini_pine.jpg", "mini_taixuforest": "assets/mini_taixuforest.jpg", "mini_taixupeak": "assets/mini_taixupeak.jpg", "mini_taixuvalley": "assets/mini_taixuvalley.jpg", "mini_tower1": "assets/mini_tower1.jpg", "mini_tower2": "assets/mini_tower2.jpg", "mini_tower3": "assets/mini_tower3.jpg", "mini_tower4": "assets/mini_tower4.jpg", "mini_tower5": "assets/mini_tower5.jpg", "mini_tower6": "assets/mini_tower6.jpg", "mini_tower7": "assets/mini_tower7.jpg", "mini_town": "assets/mini_town.jpg", "mini_village": "assets/mini_village.jpg", "mini_wild": "assets/mini_wild.jpg", "mini_wolfvalley": "assets/mini_wolfvalley.jpg", "pd_ss_1221": "assets/pd_ss_1221.webp", "pd_ss_1222": "assets/pd_ss_1222.webp", "pd_ss_1223": "assets/pd_ss_1223.webp", "pd_ss_1224": "assets/pd_ss_1224.webp", "pd_ss_1225": "assets/pd_ss_1225.webp", "pd_ss_1226": "assets/pd_ss_1226.webp", "pd_ss_1227": "assets/pd_ss_1227.webp", "pd_ss_bs20": "assets/pd_ss_bs20.webp", "pfx_ss_1221": "assets/pfx_ss_1221.webp", "pfx_ss_1222": "assets/pfx_ss_1222.webp", "pfx_ss_1223": "assets/pfx_ss_1223.webp", "pfx_ss_1224": "assets/pfx_ss_1224.webp", "pfx_ss_1225": "assets/pfx_ss_1225.webp", "pfx_ss_1226": "assets/pfx_ss_1226.webp", "pfx_ss_1227": "assets/pfx_ss_1227.webp", "pfx_ss_bs20": "assets/pfx_ss_bs20.webp", "player": "assets/player.webp", "smith": "assets/smith.webp", "vendor": "assets/vendor.webp", "waiter": "assets/waiter.webp", "walk_b": "assets/walk_b.webp", "walk_b_dao_dz": "assets/walk_b_dao_dz.webp", "walk_b_dao_dz_m": "assets/walk_b_dao_dz_m.webp", "walk_b_dao_qm": "assets/walk_b_dao_qm.webp", "walk_b_dao_qm_m": "assets/walk_b_dao_qm_m.webp", "walk_b_dao_ty": "assets/walk_b_dao_ty.webp", "walk_b_dao_ty_m": "assets/walk_b_dao_ty_m.webp", "walk_b_mo_dj": "assets/walk_b_mo_dj.webp", "walk_b_mo_dj_m": "assets/walk_b_mo_dj_m.webp", "walk_b_mo_dz": "assets/walk_b_mo_dz.webp", "walk_b_mo_dz_m": "assets/walk_b_mo_dz_m.webp", "walk_b_mo_ms": "assets/walk_b_mo_ms.webp", "walk_b_mo_ms_m": "assets/walk_b_mo_ms_m.webp", "walk_b_novice_f": "assets/walk_b_novice_f.webp", "walk_b_novice_m": "assets/walk_b_novice_m.webp", "walk_f": "assets/walk_f.webp", "walk_f_dao_dz": "assets/walk_f_dao_dz.webp", "walk_f_dao_dz_m": "assets/walk_f_dao_dz_m.webp", "walk_f_dao_qm": "assets/walk_f_dao_qm.webp", "walk_f_dao_qm_m": "assets/walk_f_dao_qm_m.webp", "walk_f_dao_ty": "assets/walk_f_dao_ty.webp", "walk_f_dao_ty_m": "assets/walk_f_dao_ty_m.webp", "walk_f_mo_dj": "assets/walk_f_mo_dj.webp", "walk_f_mo_dj_m": "assets/walk_f_mo_dj_m.webp", "walk_f_mo_dz": "assets/walk_f_mo_dz.webp", "walk_f_mo_dz_m": "assets/walk_f_mo_dz_m.webp", "walk_f_mo_ms": "assets/walk_f_mo_ms.webp", "walk_f_mo_ms_m": "assets/walk_f_mo_ms_m.webp", "walk_f_novice_f": "assets/walk_f_novice_f.webp", "walk_f_novice_m": "assets/walk_f_novice_m.webp", "wolf": "assets/wolf.webp", "world": "assets/world.webp", "kk_mo_ms": "assets/kk_mo_ms.webp", "head_kk_mo_ms": "assets/head_kk_mo_ms.webp", "kk_mo_dj": "assets/kk_mo_dj.webp", "head_kk_mo_dj": "assets/head_kk_mo_dj.webp", "fx_mo_tiger": "assets/fx_mo_tiger.webp", "fx_mo_roar": "assets/fx_mo_roar.webp", "fx_mo_slash": "assets/fx_mo_slash.webp", "fx_mo_blood": "assets/fx_mo_blood.webp", "fx_mo_pojia": "assets/fx_mo_pojia.webp", "fx_mo_bone": "assets/fx_mo_bone.webp", "fx_mo_song": "assets/fx_mo_song.webp", "fx_mo_dragon": "assets/fx_mo_dragon.webp", "ph_ss_1221": "assets/ph_ss_1221.webp", "ph_ss_1222": "assets/ph_ss_1222.webp", "ph_ss_1223": "assets/ph_ss_1223.webp", "ph_ss_1224": "assets/ph_ss_1224.webp", "ph_ss_1225": "assets/ph_ss_1225.webp", "ph_ss_1226": "assets/ph_ss_1226.webp", "ph_ss_1227": "assets/ph_ss_1227.webp", "ph_ss_bs20": "assets/ph_ss_bs20.webp", "kk_axiu": "assets/kk_axiu.webp", "head_kk_axiu": "assets/head_kk_axiu.webp", "portal_array": "assets/portal_array.webp", "wheel": "assets/wheel.webp", "kk_npc_jmsr": "assets/kk_npc_jmsr.webp", "head_kk_npc_jmsr": "assets/head_kk_npc_jmsr.webp", "kk_npc20": "assets/kk_npc20.webp", "head_kk_npc20": "assets/head_kk_npc20.webp"}, "size": {"player": [55.0, 112.0], "fox": [39.0, 50.0], "waiter": [46.5, 102.0], "smith": [62.0, 112.0], "girl": [48.0, 102.0], "vendor": [54.0, 100.0], "grunt": [96.5, 108.0], "wolf": [89.5, 72.0], "boss": [128.5, 150.0], "elder": [59.5, 104.0], "axiu": [50.5, 100.0], "dummy": [66.5, 110.0], "boar": [74.5, 78.0], "b_player": [99.0, 130.0], "b_axiu": [53.5, 124.0], "b_girl": [76.0, 128.0], "b_yan": [79.0, 132.0], "b_wuchen": [104.0, 132.0], "b_fox": [51.5, 66.0], "b_deer": [52.0, 80.0], "b_rabbit": [40.5, 60.0], "b_hawk": [109.5, 74.0], "b_tiger": [68.0, 68.0], "f_sword": [78.0, 130.0], "f_tao": [75.0, 134.0], "f_blade": [98.5, 140.0], "f_healer": [79.5, 130.0], "f_spear": [97.0, 134.0], "f_panther": [63.0, 62.0], "f_crane": [94.0, 86.0], "f_dragon": [64.5, 78.0], "f_panda": [82.0, 68.0], "f_tortoise": [65.0, 60.0], "world": [2300, 2300], "walk_f": [77.0, 123.5, 35.217675941080195], "walk_b": [66.5, 120.0, 45.688926458157226], "walk_f_dao_ty": [88.5, 120.0, 44.69], "walk_b_dao_ty": [88.5, 120.0, 42.63], "walk_f_dao_qm": [88.5, 120.0, 44.69], "walk_b_dao_qm": [88.5, 120.0, 42.63], "b_dao_ty": [114.5, 126.0], "b_dao_qm": [133.5, 126.0], "walk_f_novice_f": [101.0, 121.0, 41.202657807308974], "walk_b_novice_f": [90.0, 123.5, 48.051238257899236], "b_novice_f": [117.0, 126.0], "walk_f_novice_m": [108.0, 120.0, 46.58414239482201], "walk_b_novice_m": [80.0, 122.5, 35.21258503401361], "b_novice_m": [128.0, 126.0], "walk_f_dao_ty_m": [67.5, 121.5, 32.28397873955961], "walk_b_dao_ty_m": [66.5, 122.5, 36.781015820149875], "walk_f_dao_qm_m": [62.5, 123.0, 30.910906298003074], "walk_b_dao_qm_m": [68.5, 120.5, 31.071155317521043], "b_dao_ty_m": [91.0, 126.0], "b_dao_qm_m": [129.5, 126.0], "walk_f_dao_dz": [88.5, 120.0, 44.69], "walk_b_dao_dz": [88.5, 120.0, 42.63], "b_dao_dz": [93.0, 126.0], "walk_f_dao_dz_m": [73.0, 122.5, 33.87975646879757], "walk_b_dao_dz_m": [67.5, 122.0, 39.39297658862876], "b_dao_dz_m": [69.0, 126.0], "bc_dao_dz": [145.0, 145.0], "bc_dao_dz_m": [105.0, 145.0], "bc_dao_qm": [148.5, 145.0], "bc_dao_qm_m": [113.0, 145.0], "bc_dao_ty": [123.5, 145.0], "bc_dao_ty_m": [124.0, 145.0], "walk_f_mo_ms": [108.0, 120.0, 61.297478991596634], "walk_b_mo_ms": [114.5, 120.0, 49.28597449908925], "b_mo_ms": [102.0, 126.0], "bc_mo_ms": [149.0, 145.0], "walk_f_mo_ms_m": [109.5, 122.5, 65.20658135283364], "walk_b_mo_ms_m": [103.5, 124.5, 38.951557093425606], "b_mo_ms_m": [105.0, 126.0], "bc_mo_ms_m": [154.5, 145.0], "walk_f_mo_dj": [91.0, 121.5, 47.10910582444627], "walk_b_mo_dj": [84.0, 123.0, 42.84987694831829], "b_mo_dj": [79.0, 126.0], "bc_mo_dj": [151.0, 145.0], "walk_f_mo_dj_m": [90.0, 121.0, 53.61199294532628], "walk_b_mo_dj_m": [88.0, 124.5, 38.284751474304976], "b_mo_dj_m": [83.0, 126.0], "bc_mo_dj_m": [163.5, 145.0], "walk_f_mo_dz": [79.5, 120.5, 40.15627597672486], "walk_b_mo_dz": [83.0, 120.0, 38.76588337684944], "b_mo_dz": [87.0, 126.0], "bc_mo_dz": [156.5, 145.0], "walk_f_mo_dz_m": [88.5, 120.0, 49.593333333333334], "walk_b_mo_dz_m": [86.5, 122.0, 37.96190476190476], "b_mo_dz_m": [90.5, 126.0], "bc_mo_dz_m": [163.0, 145.0], "b_ss_1221": [140.8, 158], "bp_ss_1221": [227.2, 172.8], "b_ss_1222": [132.6, 160], "bp_ss_1222": [188.8, 162.8], "b_ss_1223": [121.1, 150], "bp_ss_1223": [172.4, 157.7], "b_ss_1224": [117.5, 150], "bp_ss_1224": [188.4, 155.7], "b_ss_1225": [143.4, 150], "bp_ss_1225": [238.4, 152.3], "b_ss_1226": [152.2, 165], "bp_ss_1226": [259.3, 183.2], "b_ss_1227": [95.6, 142], "bp_ss_1227": [170.2, 146.1], "b_ss_bs20": [129.8, 112], "bp_ss_bs20": [225.3, 121.5], "pfx_ss_1227": [184.1, 90.3], "pfx_ss_1222": [268.2, 75.5], "pfx_ss_1223": [238.2, 107.6], "pfx_ss_1224": [289.6, 277.1], "pfx_ss_1225": [237.3, 527.3], "pfx_ss_1226": [208.8, 123.8], "pfx_ss_1221": [205.3, 153.5], "pfx_ss_bs20": [154.5, 138.8], "pd_ss_1221": [153.0, 158], "pd_ss_1222": [151.2, 160], "pd_ss_1223": [141.6, 150], "pd_ss_1224": [136.6, 150], "pd_ss_1225": [194.9, 150], "pd_ss_1226": [195.0, 165], "pd_ss_1227": [117.2, 142], "pd_ss_bs20": [128.2, 112], "kk_npc14": [58.0, 104.0], "kk_npc_zhw": [78.0, 118.0], "kk_npc_cyblq": [107.0, 132.0], "kk_npc13": [48.0, 104.0], "kk_npc07": [47.0, 104.0], "kk_npc33": [49.5, 104.0], "kk_npc57": [145.0, 150.0], "kk_npc45": [120.0, 150.0], "kk_npc47": [143.0, 156.0], "kk_mo_ms": [138.0, 150.0], "kk_mo_dj": [117.0, 150.0], "kk_axiu": [54.5, 104.0], "portal_array": [200.0, 95.0], "wheel": [440, 440], "kk_npc_jmsr": [107.5, 112.0], "kk_npc20": [74.0, 104.0]}, "pet": {"b_ss_1221": {"sheet": "bp_ss_1221", "cols": 6, "rows": 2, "cw": 227.2, "ch": 172.8, "ox": 113.6, "by": 0, "H": 158, "seq": {"idle": [[0, 150]], "atk": [[4, 120], [5, 120], [6, 120], [7, 120]], "hit": [[8, 110], [9, 110]], "dodge": [[10, 110]]}, "rel": {"atk": 2}, "pfx": {"sheet": "pfx_ss_1221", "n": 4, "cw": 205.3, "ch": 153.5, "map": {"ss_hit": [0, 1], "ss_qk": [2, 3]}, "sc": {"ss_hit": 0.9, "ss_qk": 1.2}}}, "b_ss_1222": {"sheet": "bp_ss_1222", "cols": 6, "rows": 2, "cw": 188.8, "ch": 162.8, "ox": 94.4, "by": 0, "H": 160, "seq": {"idle": [[0, 150]], "atk": [[4, 120], [5, 120], [6, 120], [7, 120]], "hit": [[8, 110], [9, 110]], "dodge": [[10, 110]]}, "rel": {"atk": 2}, "pfx": {"sheet": "pfx_ss_1222", "n": 4, "cw": 268.2, "ch": 75.5, "map": {"ss_hit": [0, 1], "ss_sy": [2, 3]}, "sc": {"ss_hit": 1, "ss_sy": 1.2}}}, "b_ss_1223": {"sheet": "bp_ss_1223", "cols": 6, "rows": 2, "cw": 172.4, "ch": 157.7, "ox": 86.2, "by": 0, "H": 150, "seq": {"idle": [[0, 150]], "atk": [[4, 120], [5, 120], [6, 120], [7, 120]], "hit": [[8, 110], [9, 110]], "dodge": [[10, 110]]}, "rel": {"atk": 2}, "pfx": {"sheet": "pfx_ss_1223", "n": 6, "cw": 238.2, "ch": 107.6, "map": {"ss_hit": [0, 1], "ss_sx": [2, 3], "ss_tsy": [4, 5]}, "sc": {"ss_hit": 1, "ss_sx": 1.1, "ss_tsy": 1.3}}}, "b_ss_1224": {"sheet": "bp_ss_1224", "cols": 6, "rows": 2, "cw": 188.4, "ch": 155.7, "ox": 94.2, "by": 0, "H": 150, "seq": {"idle": [[0, 150]], "atk": [[4, 120], [5, 120], [6, 120], [7, 120]], "hit": [[8, 110], [9, 110]], "dodge": [[10, 110]]}, "rel": {"atk": 2}, "pfx": {"sheet": "pfx_ss_1224", "n": 3, "cw": 289.6, "ch": 277.1, "map": {"ss_hit": [0], "ss_ts": [1, 2]}, "sc": {"ss_hit": 1, "ss_ts": 1.2}}}, "b_ss_1225": {"sheet": "bp_ss_1225", "cols": 6, "rows": 2, "cw": 238.4, "ch": 152.3, "ox": 119.2, "by": 0, "H": 150, "seq": {"idle": [[0, 150]], "atk": [[4, 120], [5, 120], [6, 120], [7, 120]], "hit": [[8, 110], [9, 110]], "dodge": [[10, 110]]}, "rel": {"atk": 2}, "pfx": {"sheet": "pfx_ss_1225", "n": 4, "cw": 237.3, "ch": 527.3, "map": {"ss_hit": [0, 1], "ss_sg": [2, 3]}, "sc": {"ss_hit": 1, "ss_sg": 1.3}}}, "b_ss_1226": {"sheet": "bp_ss_1226", "cols": 6, "rows": 2, "cw": 259.3, "ch": 183.2, "ox": 129.7, "by": 0, "H": 165, "seq": {"idle": [[0, 150]], "atk": [[4, 120], [5, 120], [6, 120], [7, 120]], "hit": [[8, 110], [9, 110]], "dodge": [[10, 110]]}, "rel": {"atk": 2}, "pfx": {"sheet": "pfx_ss_1226", "n": 10, "cw": 208.8, "ch": 123.8, "map": {"ss_hit": [0, 1, 2, 3], "ss_th": [4, 5, 6], "ss_dy": [7, 8, 9]}, "sc": {"ss_hit": 1, "ss_th": 1.5, "ss_dy": 1.2}}}, "b_ss_1227": {"sheet": "bp_ss_1227", "cols": 6, "rows": 2, "cw": 170.2, "ch": 146.1, "ox": 85.1, "by": 0, "H": 142, "seq": {"idle": [[0, 150]], "atk": [[4, 120], [5, 120], [6, 120], [7, 120]], "hit": [[8, 110], [9, 110]], "dodge": [[10, 110]]}, "rel": {"atk": 2}, "pfx": {"sheet": "pfx_ss_1227", "n": 7, "cw": 184.1, "ch": 90.3, "map": {"ss_hit": [0, 1], "ss_sl_bw": [2, 3], "ss_kl": [4, 5, 6]}, "sc": {"ss_hit": 1, "ss_sl_bw": 1, "ss_kl": 1.3}}}, "b_ss_bs20": {"sheet": "bp_ss_bs20", "cols": 6, "rows": 2, "cw": 225.3, "ch": 121.5, "ox": 112.6, "by": 0, "H": 112, "seq": {"idle": [[0, 150]], "atk": [[4, 120], [5, 120], [6, 120], [7, 120]], "hit": [[8, 110], [9, 110]], "dodge": [[10, 110]]}, "rel": {"atk": 2}, "pfx": {"sheet": "pfx_ss_bs20", "n": 6, "cw": 154.5, "ch": 138.8, "map": {"attack": [0, 1], "bite": [2, 3], "foxfire": [4, 5]}, "sc": {"attack": 1, "bite": 1, "foxfire": 1.3}}}}, "occ": {}};
